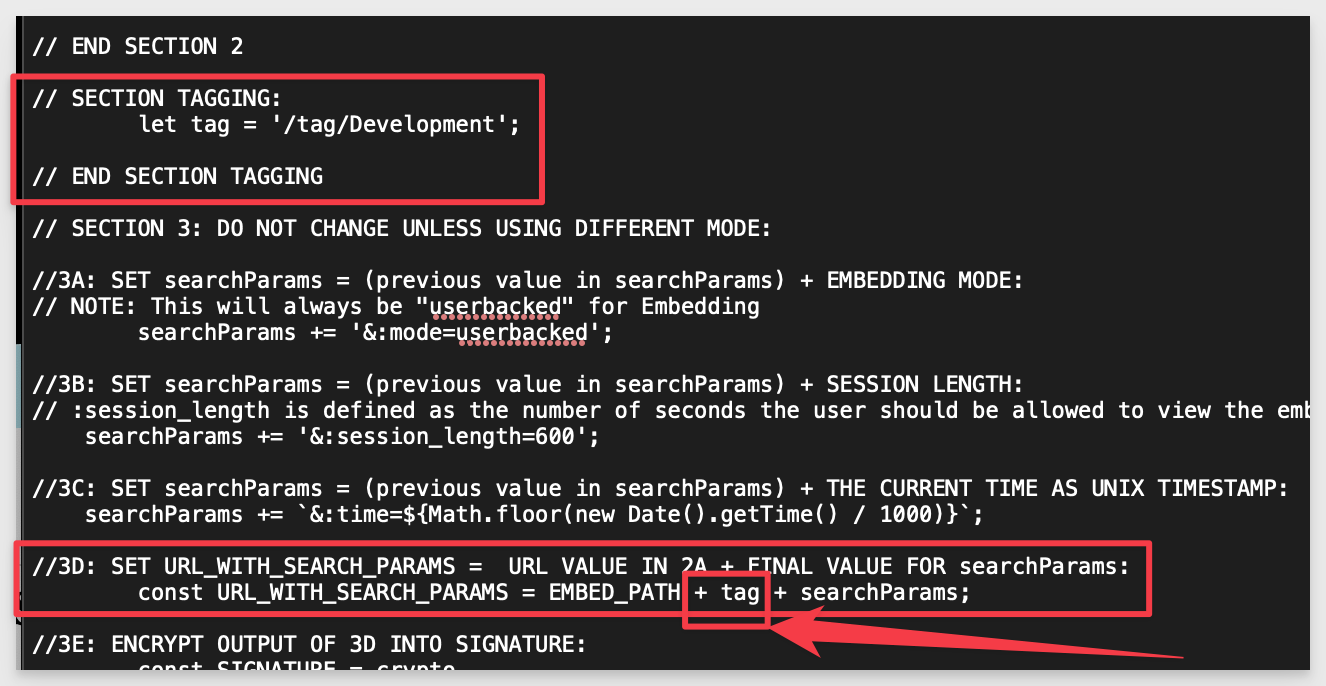
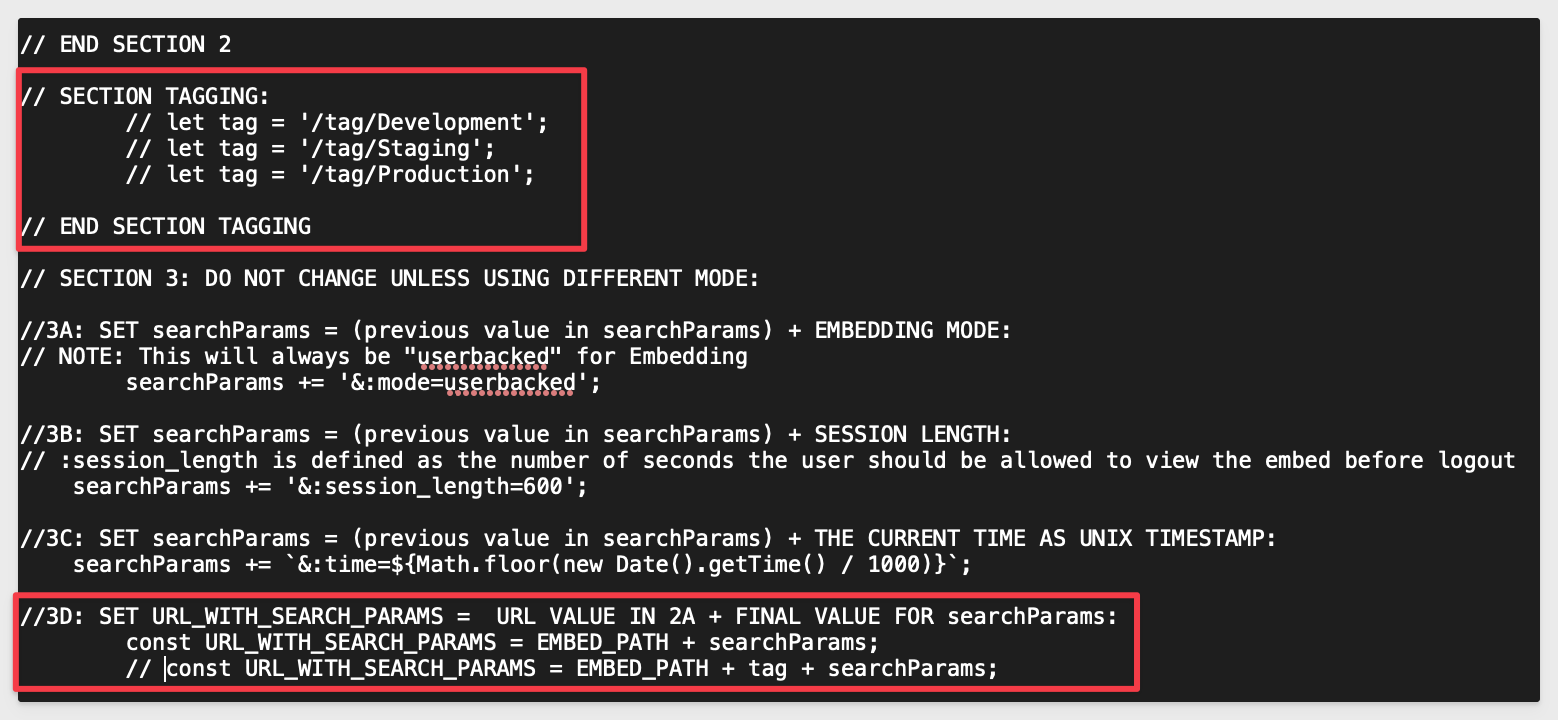
in process

Changed region(s): [[0.0, 0.0306, 0.9894, 1.0], [0.9585, 0.949, 0.9894, 0.9796]]

diff --git a/site/sigmaguides/src/embedding_8_version_tagging/embedding_8_version_tagging.md b/site/sigmaguides/src/embedding_8_version_tagging/embedding_8_version_tagging.md
@@ -51,7 +51,7 @@ In this QuickStart, we will demonstration using Postman to simulate a CI/CD work
 <strong>IMPORTANT:</strong><br> Sigma recommends that you do not use production resources when doing QuickStarts.
 </aside>
 
-<button>[Sigma Free Trial](https://www.sigmacomputing.com/free-trial/)</button> <button>[Snowflake Free Trial](https://signup.snowflake.com/)</button>
+<button>[Sigma Free Trial](https://www.sigmacomputing.com/free-trial/)</button> <button>[Snowflake Free Trial](https://signup.snowflake.com/)</button> <button>[Login or Sign Up to Postman](https://identity.getpostman.com/login)</button>
   
 ### What You’ll Learn
 How to manage CI/CD operations for a Sigma embedded environment.
@@ -70,7 +70,7 @@ We will need to create three schemas in Snowflake, each having the same tables w
 
 To help you accomplish this, we will provide the Snowflake script required to do this. 
 
-<aside class="negative"><strong>NOTE:</strong><br> The remainder of this QuickStart with reference these tables as our Workbook is promoted from Dev to Staging to Prod.</aside>
+<aside class="negative"><strong>NOTE:</strong><br> The remainder of this QuickStart with reference these tables as our Workbook is promoted from Development to Staging to Prod.</aside>
 
 ```plaintext
 // 1: CREATE OR REPLACE DATABASE AND SET IT TO CURRENT
@@ -175,7 +175,13 @@ Log into Sigma as an Administrator and head to the `Administration` / `Connectio
 
 Click the `Create Connection` button. Select `Snowflake` and fill out the form.
 
-The values for `User`, `Password` and `Role` were defined in our Snowflake Script so use those. 
+The values for `User`, `Password` and `Role` were defined in our Snowflake Script as:
+```
+Connection Name:                  User:           Password:       Role:
+Version Tagging - Development     vtag_dev        Dev99!          VT_DEV       
+Version Tagging - Staging         vtag_staging    Staging99!      VT_STAGING
+Version Tagging - Production      vtag_prod       Prod99!         VT_PROD
+```
 
 <img src="assets/vt4.png" width="800"/>
 
@@ -193,7 +199,7 @@ Verify that you can see table data for the `Company` and `Company Country` table
 
 Now repeat the process, adding new Connections for `Staging` and `Prod`. Be sure to use the correct `User` and `Role` for each accordingly.
 
-You should now have three working connections. The only different is the table data for each.
+You should now have three working connections. The only difference is the table data for each.
 
 <img src="assets/vt7.png" width="400"/>
 
@@ -203,9 +209,6 @@ You should now have three working connections. The only different is the table d
 ## **Sigma Tags**
 Duration: 5
 
-<aside class="postive">
-<strong>VERY IMPORTANT:</strong><br> When you create a tag and assign it to a workbook, you essentially freeze the state of that workbook. The process of tagging a workbook creates a duplicate that can be shared with other stakeholders and users. When you share the final (Production) version of the Workbook, it will be different than the original "Published" version of the Workbook in the Sigma creator's UI. Other tagged versions of the Workbook will not be accessible (creator and Administrator aside) unless explicitly shared with others. The tag name is appended to the URL and we will cover that later. 
-</aside>
 
 Log into Sigma as an Administrator and head to the `Administration` / `Tags` page.
 
@@ -226,15 +229,17 @@ Repeat the process, adding a `Production` tag. You should now have two tags:
 ![Footer](assets/sigma_footer.png)
 <!-- END OF SECTION-->
 
-## Sigma Dateset and Workbook
+## Sigma Workbook
 
-Create a new Dataset and save it as `Version Tagging`, selecting from the `Version Tagging - DEVELOPMENT` connection.
+Create a new Dataset and select the `Version Tagging - DEVELOPMENT` connection.
 
 Select the `Sigma_VT` / `Company_Country` table.
 
 Click `Get Started`
 
 <img src="assets/vt9.png" width="800"/>
+
+Change the Dataset name to: `Version Tagging`.
 
 Click `Publish` then click `Explore`.
 
@@ -261,8 +266,6 @@ Before we get into the promotion workflow, we need to make sure that our parent 
 ## **Verify Local Node.js Environment**
 Duration: 20
 
-Before we do anything else, lets make sure the local embed environment is working at a base level. Creating this local environment was covered on the **Embedding 1: Prerequisites QuickStart**. so it is assumed the steps are familiar and we will move quickly in regards to those details. 
-
 If you went though the other embedded QuickStarts, you may have multiple folders for each one. Lets make a copy of the `sigma_application_embed` QuickStart folder and rename it to `sigma_application_embed_tagging`.
 
 <aside class="negative">
@@ -287,7 +290,7 @@ Browse to `localhost:3000` to verify you can see a web page with the embed.
 
 <img src="assets/vt30.png" width="500"/>
 
-We need to make a change to also pass the tag to Sigma at runtime. We do that but adding a section to `server.js` to set the value and then appending that value to the URL that is constructed prior to send.
+We need to make a change to also pass the tag to Sigma (and add it to the URL) at runtime. We do that but adding a section to `server.js` to set the value and then appending that value to the URL that is constructed prior to send.
 
 <aside class="negative">
 <strong>NOTE:</strong><br> In the string `/tag/Development` the work "Development" should match a Tag that exists in Sigma. We will use this to inform the embed which tagged version to use later. The specific Workbook version number will also be passed in the API call, but is not part of the URL string.
@@ -295,31 +298,34 @@ We need to make a change to also pass the tag to Sigma at runtime. We do that bu
 
 <img src="assets/vt34.png" width="800"/>
 
-Here is the code for convenience. 
+Here is the code for convenience (leave the lines commented out for now):
 ```plaintext
 // SECTION TAGGING:
-	   let tag = '/tag/Development';
+	// let tag = '/tag/Development';
 	// let tag = '/tag/Staging';
 	// let tag = '/tag/Production';
 // END SECTION TAGGING
+```
 
 <aside class="negative">
 <strong>NOTE:</strong><br> In the code sample above, we have three statements setting the value for "tag".  Two are commented out. This is so when we test, we can just comment/uncomment the tag we want to use and save the server.js. It saves a few bits of typing and that is always appreciated.
 </aside>
-```
 
 and...
 
 ```plaintext
 // SECTION TAGGING:
-const URL_WITH_SEARCH_PARAMS = EMBED_PATH + tag + searchParams;
+  // const URL_WITH_SEARCH_PARAMS = EMBED_PATH + searchParams;
+  // const URL_WITH_SEARCH_PARAMS = EMBED_PATH + tag + searchParams;
 ```
 
 Save `server.js` after making the change and refresh the browser to make sure the page loads after this change.
 
 The page should be showing data from the Development connection.
 
-**Bear in mind that we have not applied a Development tag to this Workbook. We will see what happens later.**
+**Bear in mind that we have not applied a Development tag to this Workbook yet.**
+
+<img src="assets/vt34a.png" width="800"/>
 
 We are ready to move to the next step.
 
@@ -422,7 +428,6 @@ Edit server.js:
 	// let tag = '/tag/Development';
 	 let tag = '/tag/Staging';
 	// let tag = '/tag/Production';
-
 // END SECTION TAGGING
 ```
 
@@ -438,7 +443,6 @@ Edit server.js:
 	 let tag = '/tag/Development';
 	// let tag = '/tag/Staging';
 	// let tag = '/tag/Production';
-
 // END SECTION TAGGING
 ```
 
